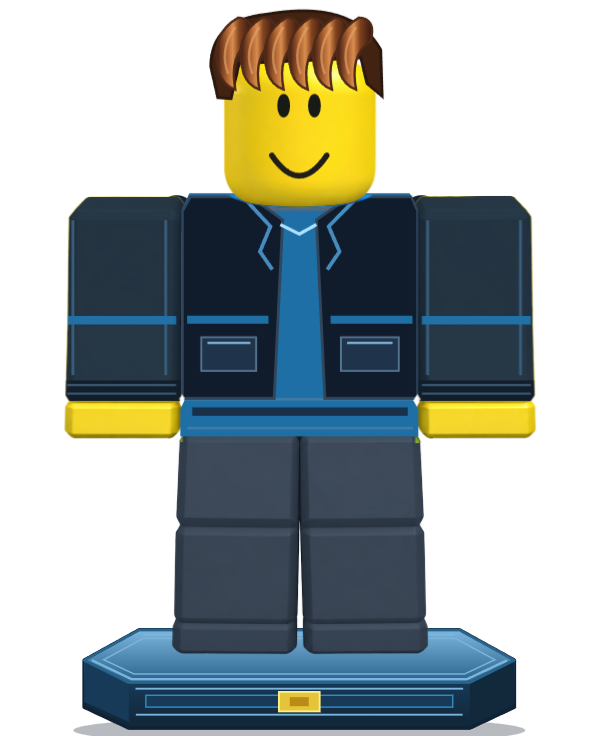
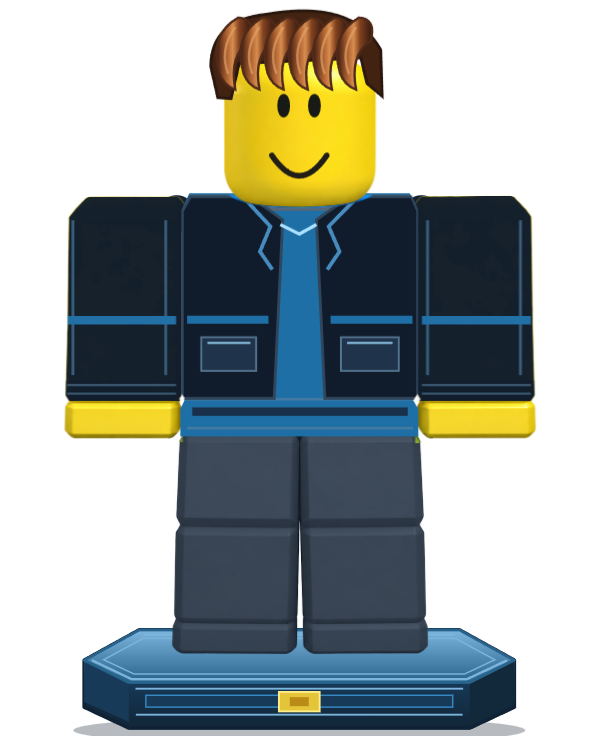
Add mix-and-match Roblox wardrobe, new outfits, and matching jacket sleeves

diff --git a/roblox-pet/skins.js b/roblox-pet/skins.js
@@ -5,13 +5,16 @@ const skins={
  'Classic Guest':{headwear:'none',torso:'ink',legs:'blue',arms:null,deck:['#70849c','#253b53'],blue:['#182332','#3c536c','#111b29']},
  Builder:{headwear:'hard-hat',torso:'ink',legs:'denim',arms:null,deck:['#e9c66f','#9b6b2b'],blue:['#6d391a','#b87730','#3d261b']},
  'Bacon Hair':{headwear:'bacon-hair',torso:'blue',legs:'ink',arms:null,deck:['#7cb5dc','#28638c'],blue:['#173a59','#368ac2','#12283b']},
+ 'Red Varsity':{headwear:'bacon-hair',torso:'ink',legs:'denim',arms:null,deck:['#f39195','#883245'],blue:['#631c32','#bc3954','#341a29']},
+ Explorer:{headwear:'none',torso:'ink',legs:'khaki',arms:null,deck:['#d8c49b','#746d40'],blue:['#404d31','#8a9960','#283024']},
+ Astronaut:{headwear:'none',torso:'steel',legs:'steel',arms:null,deck:['#d4e9fa','#6795bd'],blue:['#23466a','#559fcf','#162b46']},
  Knight:{headwear:'knight-helmet',torso:'steel',legs:'steel',arms:'steel',deck:['#e1e6ec','#718296'],blue:['#26364a','#8dabc9','#243248']}
 };
 if(typeof module!=='undefined'&&module.exports){module.exports=skins;return}root.robloxSkins=skins;
 root.mountRobloxSkins=function(pet){
  const ns='http://www.w3.org/2000/svg',svg=pet.querySelector('svg'),defs=svg.querySelector('defs');
  const add=(parent,markup)=>{const g=document.createElementNS(ns,'g');g.innerHTML=markup;parent.append(g);return g;};
- const colors={jacket:['#050d18','#26394c'],ink:['#060d17','#4b596a'],blue:['#002249','#2db0ff'],denim:['#061c31','#3b769d'],steel:['#263448','#f4f8ff']};
+ const colors={jacket:['#101c2b','#101c2b'],khaki:['#302c1c','#a49a6c'],ink:['#060d17','#4b596a'],blue:['#002249','#2db0ff'],denim:['#061c31','#3b769d'],steel:['#263448','#f4f8ff']};
  for(const [id,[lo,hi]] of Object.entries(colors)){const rgb=s=>[1,3,5].map(i=>parseInt(s.slice(i,i+2),16)/255),a=rgb(lo),b=rgb(hi);const values=a.flatMap((v,i)=>[.2126*(b[i]-v),.7152*(b[i]-v),.0722*(b[i]-v),0,v]).concat([0,0,0,1,0]);defs.insertAdjacentHTML('beforeend',`<filter id="rbwear-${id}" color-interpolation-filters="sRGB"><feColorMatrix values="${values.join(' ')}"/></filter>`);}
  defs.insertAdjacentHTML('beforeend',`<linearGradient id="rbwear-orange"><stop stop-color="#9c3e0c"/><stop offset=".18" stop-color="#f99c25"/><stop offset=".5" stop-color="#ffbb45"/><stop offset=".86" stop-color="#e46b10"/><stop offset="1" stop-color="#8e370d"/></linearGradient><linearGradient id="rbwear-silver"><stop stop-color="#445266"/><stop offset=".2" stop-color="#cbd8e3"/><stop offset=".45" stop-color="#f0f5f8"/><stop offset=".58" stop-color="#9aaebf"/><stop offset="1" stop-color="#37475d"/></linearGradient><linearGradient id="rbwear-gold"><stop stop-color="#926019"/><stop offset=".4" stop-color="#ffed90"/><stop offset=".7" stop-color="#e4b443"/><stop offset="1" stop-color="#9d671b"/></linearGradient><linearGradient id="rbwear-hair"><stop stop-color="#3d1a10"/><stop offset=".3" stop-color="#ad6231"/><stop offset=".47" stop-color="#d88c4e"/><stop offset=".65" stop-color="#81421f"/><stop offset="1" stop-color="#32170e"/></linearGradient><linearGradient id="rbwear-hat" x2="0" y2="1"><stop stop-color="#fff5a7"/><stop offset=".3" stop-color="#ffe04e"/><stop offset=".8" stop-color="#eaa913"/><stop offset="1" stop-color="#9e6508"/></linearGradient>`);
  const torso=pet.querySelector('.skin-torso'),legs=pet.querySelector('.legs'),arms=[...pet.querySelectorAll('.arm')];
@@ -27,6 +30,9 @@ root.mountRobloxSkins=function(pet){
  'Bacon Hair':`<path d="M322 411H449L517 460L499 837H305V442ZM658 411H789L802 441V837H606L588 460Z" fill="#101c2b" stroke="#30465c" stroke-width="6"/><path d="M441 420L491 474L469 527L495 565M667 420L614 474L637 527L611 565" fill="none" stroke="#478cc1" stroke-width="8"/><path d="M315 671H487M618 671H791" stroke="#1f6fa7" stroke-width="17"/><path d="M345 708H461V779H345ZM640 708H762V779H640Z" fill="#1f344b" stroke="#54738f" stroke-width="4"/><path d="M358 720H449M653 720H749" stroke="#7cafcf" stroke-width="5"/><path d="M512 470L552 490L588 470" fill="none" stroke="#ace1ff" stroke-width="7"/><path d="M326 865H781" stroke="#18304a" stroke-width="18"/>`,
  Knight:`<path d="M326 427H458L552 478L650 427H780L791 798L743 831H361L314 798Z" fill="url(#rbwear-silver)" stroke="#405267" stroke-width="8"/><path d="M339 446H451L552 497L653 446H764M552 504V807M338 793L552 814L767 793" fill="none" stroke="#f5f7e9" stroke-width="7"/><path d="M465 540H638V649Q620 730 552 765Q483 730 465 649Z" fill="#183f72" stroke="url(#rbwear-gold)" stroke-width="10"/><path d="M552 563L570 612L620 613L580 643L594 696L552 664L510 696L524 643L484 613L534 612Z" fill="url(#rbwear-gold)"/><path d="M310 850H795V895H310Z" fill="#313f52"/><rect x="515" y="847" width="77" height="53" rx="8" fill="url(#rbwear-gold)"/><path d="M535 861H574V885H535Z" fill="#29415f"/>${rivets([350,752],474)}${rivets([348,754],772)}`
  };
+ outfits['Red Varsity']=`<path d="M309 425H797V838H309Z" fill="#8f203b"/><path d="M444 414L552 487L658 414" fill="none" stroke="#f7e3c0" stroke-width="22"/><path d="M552 487V836" stroke="#f6ddb4" stroke-width="8"/><path d="M314 810H792M314 790H792" stroke="#f7e3c0" stroke-width="10"/><path d="M355 682L435 659M669 659L749 682" stroke="#efcaa4" stroke-width="10"/><text x="389" y="590" fill="#fff0ca" stroke="#502238" stroke-width="2" font-family="Arial" font-weight="900" font-size="88">B</text>${[545,615,685,755].map(y=>`<circle cx="565" cy="${y}" r="6" fill="#ffe8bd"/>`).join('')}`;
+ outfits.Explorer=`<path d="M311 416H463L520 494V837H308ZM642 416H793V837H584V494Z" fill="#8a7951" stroke="#504b32" stroke-width="7"/><path d="M459 420L497 473L463 548M645 420L609 473L643 548" fill="none" stroke="#c3b284" stroke-width="12"/>${[341,650].map(x=>`<path d="M${x} 566H${x+113}V688H${x}Z" fill="#746743" stroke="#c5b58a" stroke-width="5"/><path d="M${x} 566L${x+57} 604L${x+113} 566" fill="#9f8e62" stroke="#c5b58a" stroke-width="4"/><circle cx="${x+57}" cy="610" r="7" fill="#d8c79b"/>`).join('')}<path d="M313 853H795V891H313Z" fill="#4a3828"/><rect x="525" y="848" width="56" height="50" fill="#ceb57b"/><rect x="537" y="861" width="32" height="24" fill="#4a3828"/>`;
+ outfits.Astronaut=`<path d="M311 420H795V837H311Z" fill="#dce7ee" stroke="#7b9bb4" stroke-width="8"/><path d="M450 425Q552 509 656 425" fill="none" stroke="#35516d" stroke-width="28"/><rect x="422" y="538" width="262" height="170" rx="18" fill="#36506c" stroke="#98b4c8" stroke-width="9"/><rect x="442" y="559" width="151" height="73" rx="6" fill="#8ee3ed"/><path d="M457 607L477 583L501 611L530 579L576 592" fill="none" stroke="#24668a" stroke-width="7"/><circle cx="636" cy="584" r="17" fill="#ff983d"/><circle cx="636" cy="643" r="14" fill="#8be2a2"/><path d="M446 663H583M313 772H795" stroke="#6b8ca6" stroke-width="11"/><path d="M312 851H795V894H312Z" fill="#344b61"/><rect x="526" y="849" width="56" height="48" fill="#f39b43"/>`;
  const hats={
  'hard-hat':`<path d="M377 161Q381 38 552 32Q722 38 728 161L751 177Q556 227 351 177Z" fill="url(#rbwear-hat)" stroke="#98630d" stroke-width="7"/><path d="M414 148Q419 69 483 58M691 148Q683 69 620 58" fill="none" stroke="#ffe991" stroke-width="11"/><path d="M533 39H570L583 164H521Z" fill="#f7cd38" stroke="#c0890e" stroke-width="5"/><path d="M359 177Q552 201 744 177" fill="none" stroke="#fff0a0" stroke-width="8"/><rect x="527" y="112" width="54" height="41" rx="6" fill="#294458"/><path d="M539 134H568M554 121V146" stroke="#fce7a1" stroke-width="6"/>`,
  'bacon-hair':`<path d="M380 202L365 136Q366 38 482 26Q665 -6 724 101L727 199L695 172L682 118L425 130L408 204Z" fill="#422211" stroke="#29170e" stroke-width="6"/>${[0,1,2,3,4,5].map(i=>{const x=383+i*51;return `<path d="M${x} 150Q${x-23} 69 ${x+40} 33Q${x+77} 35 ${x+65} 82Q${x+20} 111 ${x+34} 185Q${x+9} 176 ${x} 150Z" fill="url(#rbwear-hair)" stroke="#502a18" stroke-width="5"/><path d="M${x+34} 53Q${x-1} 101 ${x+19} 152" fill="none" stroke="#e2a369" stroke-width="5" opacity=".65"/>`}).join('')}`,
@@ -34,15 +40,18 @@ root.mountRobloxSkins=function(pet){
  };
  const trim=[...pet.querySelectorAll('.platform [fill],.platform [stroke],.nameplate [fill],.nameplate [stroke]')].map(node=>({node,fill:node.getAttribute('fill'),stroke:node.getAttribute('stroke')}));
  let lastSkin='',lastHat='';
- function set(prefs,dancing){const name=Object.hasOwn(skins,prefs.skin)?prefs.skin:'Classic',s=skins[name];
-  if(name!==lastSkin){lastSkin=name;pet.dataset.skin=name;
+ function set(prefs,dancing){const skin=Object.hasOwn(skins,prefs.skin)?prefs.skin:'Classic',name=Object.hasOwn(skins,prefs.top)?prefs.top:skin,pants=Object.hasOwn(skins,prefs.pants)?prefs.pants:skin,s={...skins[skin],torso:skins[name].torso,arms:skins[name].arms,legs:skins[pants].legs},key=[skin,name,pants].join('|');
+  if(key!==lastSkin){lastSkin=key;pet.dataset.skin=skin;pet.dataset.top=name;pet.dataset.pants=pants;
    for(const [node,id] of [[torso.querySelector('image'),s.torso],[legs.querySelector('image'),s.legs],...arms.map(a=>[a.querySelector('image'),s.arms])]){if(id)node.setAttribute('filter',`url(#rbwear-${id})`);else node.removeAttribute('filter');}
    arms.forEach((arm,i)=>arm.querySelector('circle').setAttribute('fill',name==='Knight'?'#7a8da0':name==='Bacon Hair'?'#142233':i?'#e9d21e':'#dfc81d'));
    const palette={'#16466b':s.blue[0],'#0d3557':s.blue[2],'#102d48':s.blue[2],'#59aee2':s.deck[0],'#77c7f2':s.deck[0],'#597b30':s.deck[1],'#e4f5b5':s.deck[0],'#b9d879':s.deck[0],'#398bbd':s.blue[1],'#1c527b':s.blue[0]};
-   trim.forEach(({node,fill,stroke})=>{if(fill)node.setAttribute('fill',name==='Classic'?fill:palette[fill]||fill);if(stroke)node.setAttribute('stroke',name==='Classic'?stroke:palette[stroke]||stroke)});
-   torso.querySelector('image').style.display=name==='Classic'?'':'none';
-   torsoLayer.innerHTML=name==='Classic'?'':`<g class="plain-outfit-base"><path d="M320 403H785L802 440V825L792 840L804 861V918H300V861L310 840L303 825V440Z" fill="${name==='Knight'?'#b3c2d1':name==='Bacon Hair'?'#1d6fa6':'#263342'}"/><path d="M320 407H785L793 441H311Z" fill="#52677b"/><path d="M310 445H329V817H310ZM781 445H798V817H781Z" fill="#0c1a2c" opacity=".3"/><path d="M310 839H792M315 900H792" stroke="#71889b" stroke-width="5" opacity=".5"/></g>`+(outfits[name]||'');legLayer.innerHTML=name==='Builder'?`<path d="M309 954L340 1008H423M800 954L767 1008H685M425 935V1081M678 935V1081" fill="none" stroke="#8bb2c6" stroke-width="5" stroke-dasharray="8 5"/><path d="M293 1292H543V1379H293ZM561 1292H815V1379H561Z" fill="#443320" stroke="#876d43" stroke-width="6"/>`:name==='Knight'?`<path d="M312 970H516V1073H312ZM583 970H786V1073H583Z" fill="url(#rbwear-silver)" stroke="#435870" stroke-width="6"/><path d="M332 1153L409 1130L495 1153V1281H332ZM603 1153L681 1130L765 1153V1281H603Z" fill="url(#rbwear-silver)" stroke="#435870" stroke-width="6"/>`:'';
+   trim.forEach(({node,fill,stroke})=>{if(fill)node.setAttribute('fill',skin==='Classic'?fill:palette[fill]||fill);if(stroke)node.setAttribute('stroke',skin==='Classic'?stroke:palette[stroke]||stroke)});
+   torso.querySelector('image').style.display=name==='Classic'&&skin==='Classic'?'':'none';
+   torsoLayer.innerHTML=name==='Classic'&&skin==='Classic'?'':`<g class="plain-outfit-base"><path d="M320 403H785L802 440V825L792 840L804 861V918H300V861L310 840L303 825V440Z" fill="${name==='Knight'?'#b3c2d1':(name==='Bacon Hair'||name==='Classic')?'#1d6fa6':'#263342'}"/><path d="M320 407H785L793 441H311Z" fill="#52677b"/><path d="M310 445H329V817H310ZM781 445H798V817H781Z" fill="#0c1a2c" opacity=".3"/><path d="M310 839H792M315 900H792" stroke="#71889b" stroke-width="5" opacity=".5"/></g>`+(outfits[name]||'');legLayer.innerHTML=pants==='Builder'?`<path d="M309 954L340 1008H423M800 954L767 1008H685M425 935V1081M678 935V1081" fill="none" stroke="#8bb2c6" stroke-width="5" stroke-dasharray="8 5"/><path d="M293 1292H543V1379H293ZM561 1292H815V1379H561Z" fill="#443320" stroke="#876d43" stroke-width="6"/>`:pants==='Knight'?`<path d="M312 970H516V1073H312ZM583 970H786V1073H583Z" fill="url(#rbwear-silver)" stroke="#435870" stroke-width="6"/><path d="M332 1153L409 1130L495 1153V1281H332ZM603 1153L681 1130L765 1153V1281H603Z" fill="url(#rbwear-silver)" stroke="#435870" stroke-width="6"/>`:'';
    armLayers.forEach((layer,i)=>{const x=i?811:62;layer.innerHTML=name==='Bacon Hair'?`<svg class="jacket-sleeve" x="${x-35}" y="397" width="290" height="445" viewBox="${x-35} 397 290 445" overflow="hidden"><image href="roblox-pet/approved-roblox.png" width="1107" height="1421" filter="url(#rbwear-jacket)"/><path d="M${x+12} 461V788M${x+208} 461V788" stroke="#365d7c" stroke-width="6"/><path d="M${x} 672H${x+230}" stroke="#1f6fa7" stroke-width="18"/><path d="M${x-20} 799H${x+250}V842H${x-20}Z" fill="#101c2b"/><path d="M${x} 809H${x+230}M${x} 827H${x+230}" stroke="#36536d" stroke-width="5"/></svg>`:name==='Knight'?`<path d="M${x} 445H${x+225}V574L${x+195} 600H${x+25}L${x} 574Z" fill="url(#rbwear-silver)" stroke="#40536b" stroke-width="7"/><path d="M${x+12} 474H${x+213}M${x+12} 519H${x+213}" stroke="#62748a" stroke-width="6"/><path d="M${x+6} 746H${x+220}V825H${x+6}Z" fill="url(#rbwear-silver)" stroke="#40536b" stroke-width="6"/>`:'';});
+   const sleeveColors={'Red Varsity':['#efe0bc','#af344e'],Explorer:['#8a7951','#c3b284'],Astronaut:['#dce7ee','#6b8ca6']};
+   if(sleeveColors[name])armLayers.forEach((layer,i)=>{const x=i?811:62,[fill,trim]=sleeveColors[name];layer.innerHTML=`<path d="M${x-30} 397H${x+260}V842H${x-30}Z" fill="${fill}"/><path d="M${x+8} 457V790M${x+213} 457V790" stroke="${trim}" stroke-width="7"/><path d="M${x-30} 801H${x+260}M${x-30} 825H${x+260}" stroke="${trim}" stroke-width="12"/>`;});
+   if(pants==='Red Varsity'||pants==='Explorer'||pants==='Astronaut')legLayer.innerHTML=`<path d="M320 959L344 1015H416M790 959L765 1015H693M425 940V1077M678 940V1077" fill="none" stroke="${pants==='Astronaut'?'#7196b2':'#c0b18e'}" stroke-width="6"/><path d="M298 1299H539V1379H298ZM565 1299H811V1379H565Z" fill="${pants==='Astronaut'?'#36506c':'#263342'}"/>`;
    const stops=(id,cs)=>pet.querySelectorAll('#roblox-'+id+' stop').forEach((stop,i)=>stop.setAttribute('stop-color',cs[Math.min(i,cs.length-1)]));stops('deck',s.deck);stops('blue',s.blue);stops('fascia',[s.blue[1],s.blue[0],s.blue[2]]);stops('plateInset',[s.blue[1],s.blue[2]]);
   }
   const hat=dancing?'none':prefs.headwear;if(hat!==lastHat){lastHat=hat;headLayer.innerHTML=hats[hat]||'';headLayer.dataset.headwear=hat;}

diff --git a/pet-studio.js b/pet-studio.js
@@ -31,7 +31,7 @@ function sync(){
 function heading(title,description,badge=''){return '<div class="section-heading"><div><h3>'+title+'</h3><p>'+description+'</p></div>'+(badge?'<span class="count">'+badge+'</span>':'')+'</div>'}
 function category(name){if(current==='roblox')return 'Block characters';if(current==='labubu')return 'Plush';if(current==='eagle')return 'Birds';if(current==='gummy')return 'Candy';if(/Jack/.test(name))return 'Seasonal';if(/Axolotl|Panda|Tiger|Snake|Zebra|Crocodile|Camo/.test(name))return 'Animals';if(/Glitter|Metallic|Chrome|Copper|Bronze|Royal|Gold/.test(name))return 'Metallic';return 'Fantasy'}
 function skinItems(){return current==='roblox'?Object.keys(robloxSkins).map(id=>({id,label:id})):current==='labubu'?Object.keys(labubuSkins).map(id=>({id,label:id})):current==='eagle'?[{id:'Bald Eagle',label:'Bald Eagle'}]:current==='gummy'?Object.keys(gummyBearSkins).map(id=>({id,label:id})):current==='colt'?Object.keys(roboColtSkins).map(id=>({id,label:id})):squishyColors}
-function gallery(){const items=skinItems().filter(x=>(filter==='All'||category(x.label)===filter)&&x.label.toLowerCase().includes(query.toLowerCase()));const chosen=current==='squishy'?state.squishy.color:state[current].skin;dialog.querySelector('#gallery').innerHTML=items.map(x=>'<button class="skin-card" data-skin-choice="'+esc(x.id)+'" aria-pressed="'+(x.id===chosen)+'">'+(current==='labubu'?labubuThumbnail(x.id):'<img src="assets/pet-studio/'+current+'-'+slug(x.id)+'.png?v='+(current==='roblox'?'20261025-fit-v2':'20261024-transparent')+'" alt="" loading="lazy">')+'<span class="skin-name">'+esc(x.label)+'</span>'+(chosen===x.id?'<span class="check" aria-hidden="true">✓</span>':'')+'</button>').join('')||'<div class="empty">No matching skins. Try another search.</div>';dialog.querySelectorAll('[data-skin-choice]').forEach(b=>b.onclick=()=>{change(current==='squishy'?'color':'skin',b.dataset.skinChoice);gallery()});}
+function gallery(){const items=skinItems().filter(x=>(filter==='All'||category(x.label)===filter)&&x.label.toLowerCase().includes(query.toLowerCase()));const chosen=current==='squishy'?state.squishy.color:state[current].skin;dialog.querySelector('#gallery').innerHTML=items.map(x=>'<button class="skin-card" data-skin-choice="'+esc(x.id)+'" aria-pressed="'+(x.id===chosen)+'">'+(current==='labubu'?labubuThumbnail(x.id):'<img src="assets/pet-studio/'+current+'-'+slug(x.id)+'.png?v='+(current==='roblox'?'20261025-wardrobe-v3':'20261024-transparent')+'" alt="" loading="lazy">')+'<span class="skin-name">'+esc(x.label)+'</span>'+(chosen===x.id?'<span class="check" aria-hidden="true">✓</span>':'')+'</button>').join('')||'<div class="empty">No matching skins. Try another search.</div>';dialog.querySelectorAll('[data-skin-choice]').forEach(b=>b.onclick=()=>{change(current==='squishy'?'color':'skin',b.dataset.skinChoice);gallery()});}
 function choices(key,items){return '<div class="choices">'+items.map(([id,label])=>'<button data-choice-key="'+key+'" data-choice="'+id+'" aria-pressed="'+(state[current][key]===id)+'">'+label+'</button>').join('')+'</div>'}
 function toggle(key,label,desc){return '<label class="option-row"><span><strong>'+label+'</strong><p>'+desc+'</p></span><input type="checkbox" data-toggle="'+key+'" '+(state[current][key]?'checked':'')+'></label>'}
 function render(){content.setAttribute('aria-labelledby','studio-tab-'+tab);dialog.querySelectorAll('[data-tab]').forEach(b=>{b.setAttribute('aria-selected',b.dataset.tab===tab);b.tabIndex=b.dataset.tab===tab?0:-1});const p=state[current];
@@ -39,7 +39,7 @@ function render(){content.setAttribute('aria-labelledby','studio-tab-'+tab);dial
   content.innerHTML=heading('Find their signature look','A new look. The same little companion.',skinItems().length+' skins')+'<div class="subtabs"><button data-subtab="skins" aria-pressed="'+(subtab==='skins')+'">Skins</button><button data-subtab="accessories" aria-pressed="'+(subtab==='accessories')+'">Accessories</button></div>'+(subtab==='skins'?'<input class="search" id="skin-search" type="search" aria-label="Search skins" placeholder="Search skins…" value="'+esc(query)+'"><div class="filters">'+['All',...new Set(skinItems().map(x=>category(x.label)))].map(f=>'<button data-filter="'+f+'" aria-pressed="'+(f===filter)+'">'+f+'</button>').join('')+'</div><div class="gallery" id="gallery"></div>':'<div class="accessory-list"><h4>HEADWEAR</h4>'+choices(current==='colt'?'headwear':'accessory',current==='colt'?[['none','None'],['headphones','Headphones'],['horn','Unicorn horn'],['racing-helmet','Racing helmet'],['sleepcap','Sleep cap']]:[['none','None'],['bow','Bow'],['headphones','Headphones'],['hat','Small hat'],['cap','School cap'],['crown','Crown'],['sleepcap','Sleep cap']])+'<h4>EYEWEAR</h4>'+choices('eyewear',current==='colt'?[['none','None'],['sunglasses','Sunglasses'],['star-glasses','Star glasses'],['sport-goggles','Sport goggles']]:[['none','None'],['round','Round glasses'],['tea-glasses','Tea glasses'],['sunglasses','Sunglasses'],['star-glasses','Star glasses']])+(current==='colt'?'<h4>NECKWEAR & BODY</h4>'+choices('neckwear',[['none','None'],['scarf','Scarf'],['chest-badge','Armored badge'],['bowtie','Bow tie']]):'')+'</div><div class="helper-box">Mix pieces from different categories. Accessories stay fitted when you change skins.</div>');
   if(['eagle','gummy'].includes(current)&&subtab==='accessories')content.innerHTML=heading('Finish their look','Mix one piece from each category.')+'<div class="subtabs"><button data-subtab="skins">Skins</button><button data-subtab="accessories" aria-pressed="true">Accessories</button></div><div class="accessory-list"><h4>HEADWEAR</h4>'+choices('headwear',current==='eagle'?[['none','None'],['flight-cap','Flight cap'],['ranger','Ranger hat'],['sheriff','Sheriff hat'],['earmuffs','Earmuffs']]:[['none','None'],['crown','Candy crown'],['varsity','Varsity cap'],['beanie','Candy beanie'],['headphones','Headphones']])+'<h4>EYEWEAR</h4>'+choices('eyewear',current==='eagle'?[['none','None'],['goggles','Aviator goggles'],['bronze-goggles','Bronze goggles']]:[['none','None'],['sunglasses','Sunglasses'],['star-glasses','Star glasses']])+'<h4>NECKWEAR & BODY</h4>'+choices('neckwear',current==='eagle'?[['none','None'],['bandana','Bandana'],['compass','Compass pendant'],['medal','Feather medal'],['shoulder-scarf','Woven scarf'],['flight-vest','Flight vest']]:[['none','None'],['bowtie','Bow tie'],['candy-chain','Candy chain'],['belt','Candy belt']])+'</div><div class="helper-box">Headphones temporarily replace headwear during music. Your selections return afterward.</div>';
 
-  if(current==='roblox'&&subtab==='accessories')content.innerHTML=heading('Finish their look','Mix any headwear with your outfit. Music temporarily swaps it for headphones.')+'<div class="subtabs"><button data-subtab="skins">Skins</button><button data-subtab="accessories" aria-pressed="true">Accessories</button></div><h4>HEADWEAR</h4>'+choices('headwear',[['none','None'],['headphones','Headphones'],['hard-hat','Builder hard hat'],['bacon-hair','Bacon hair'],['knight-helmet','Knight helmet']]);
+  if(current==='roblox'&&subtab==='accessories')content.innerHTML=heading('Finish their look','Choose a top, pants, and headwear independently. Selecting a skin resets the outfit.')+'<div class="subtabs"><button data-subtab="skins">Skins</button><button data-subtab="accessories" aria-pressed="true">Accessories</button></div><h4>HEADWEAR</h4>'+choices('headwear',[['none','None'],['headphones','Headphones'],['hard-hat','Builder hard hat'],['bacon-hair','Bacon hair'],['knight-helmet','Knight helmet']])+'<h4>TOPS & JACKETS</h4>'+choices('top',[['skin','Match selected skin'],...Object.keys(robloxSkins).map(id=>[id,id])])+'<h4>PANTS</h4>'+choices('pants',[['skin','Match selected skin'],...Object.keys(robloxSkins).map(id=>[id,id])]);
   if(current==='labubu'&&subtab==='accessories')content.innerHTML=heading('Finish their look','Mix textured outfits, matching hats, and a little gold.')+'<div class="subtabs"><button data-subtab="skins">Skins</button><button data-subtab="accessories" aria-pressed="true">Accessories</button></div><h4>HEADWEAR</h4>'+choices('headwear',[['none','None'],['headphones','Headphones'],['mustard-cap','Mustard knit cap'],['black-bucket','Black bucket hat'],['black-hood','Black hood']])+'<h4>OUTFITS</h4>'+choices('outfit',[['none','None'],['mustard-overalls','Mustard overalls & cream shirt'],['black-streetwear','Black streetwear'],['black-hoodie','Black hoodie & joggers']])+'<h4>NECKWEAR</h4>'+choices('neckwear',[['none','None'],['gold-chain','Gold chain']])+'<div class="helper-box">Mix pieces with any fur color. Headphones temporarily replace hats while dancing; your chosen hat returns afterward.</div>';
   dialog.querySelectorAll('[data-subtab]').forEach(b=>b.onclick=()=>{subtab=b.dataset.subtab;render()});
   if(subtab==='skins'){gallery();dialog.querySelector('#skin-search').oninput=e=>{query=e.target.value;gallery()};dialog.querySelectorAll('[data-filter]').forEach(b=>b.onclick=()=>{filter=b.dataset.filter;render()})}

diff --git a/work/roblox-skins-preview.html b/work/roblox-skins-preview.html
@@ -1,8 +1,8 @@
-<!doctype html><html lang="en"><head><meta charset="utf-8"><base href="../"><meta name="viewport" content="width=device-width,initial-scale=1"><title>Roblox Buddy — outfits</title><link rel="stylesheet" href="roblox-pet/interactive.css?v=20261025-fit-v2"><style>
+<!doctype html><html lang="en"><head><meta charset="utf-8"><base href="../"><meta name="viewport" content="width=device-width,initial-scale=1"><title>Roblox Buddy — outfits</title><link rel="stylesheet" href="roblox-pet/interactive.css?v=20261025-wardrobe-v3"><style>
 body{margin:0;background:#1b2430;color:#eaf4ff;font:16px system-ui;text-align:center}main{max-width:900px;margin:auto;padding:24px}h1{margin-bottom:8px}p{color:#b9cbde}.stage{display:grid;place-items:center;min-height:480px;background:radial-gradient(#374a60,#202c3b);border:1px solid #516075;border-radius:24px;margin:24px 0}.stage .roblox-companion{position:relative!important;inset:auto!important;width:300px!important;max-width:85vw;margin:0}.controls{display:flex;flex-wrap:wrap;justify-content:center;gap:10px;margin:16px 0}button,select{padding:10px 14px;border:1px solid #657a92;border-radius:10px;background:#293d53;color:#fff;font:inherit;cursor:pointer}button[aria-pressed=true]{background:#195b8c;border-color:#98d9ff}.roblox-speech{display:none}label{display:flex;align-items:center;gap:8px}.note{font-size:13px}
-</style></head><body><main><h1>Roblox Buddy · new outfits</h1><p>The actual Pet Studio outfits, with mix-and-match headwear.</p><div class="controls" id="skins"></div><div class="stage"></div><div class="controls"><label>Headwear <select id="headwear"><option value="none">None</option><option value="headphones">Headphones</option><option value="hard-hat">Builder hard hat</option><option value="bacon-hair">Bacon hair</option><option value="knight-helmet">Knight helmet</option></select></label><label><input id="motion" type="checkbox" checked>Motion</label></div><div class="controls"><button data-action="hello">Say hello</button><button data-action="hands">Arm wiggle</button><button data-action="look">Look around</button><button id="sleep">Sleep / wake</button><button id="dance">Dance</button></div><p class="note">These use the production artwork and animations. This test does not change account settings.</p></main><script src="roblox-pet/skins.js?v=20261025-fit-v2"></script><script src="roblox-pet/interactive.js?v=20261025-fit-v2"></script><script>
+</style></head><body><main><h1>Roblox Buddy · new outfits</h1><p>The actual Pet Studio outfits, with mix-and-match tops, pants, and headwear.</p><div class="controls" id="skins"></div><div class="stage"></div><div class="controls"><label>Headwear <select id="headwear"><option value="none">None</option><option value="headphones">Headphones</option><option value="hard-hat">Builder hard hat</option><option value="bacon-hair">Bacon hair</option><option value="knight-helmet">Knight helmet</option></select></label><label>Top <select id="top"></select></label><label>Pants <select id="pants"></select></label><label><input id="motion" type="checkbox" checked>Motion</label></div><div class="controls"><button data-action="hello">Say hello</button><button data-action="hands">Arm wiggle</button><button data-action="look">Look around</button><button id="sleep">Sleep / wake</button><button id="dance">Dance</button></div><p class="note">These use the production artwork and animations. This test does not change account settings.</p></main><script src="roblox-pet/skins.js?v=20261025-wardrobe-v3"></script><script src="roblox-pet/interactive.js?v=20261025-wardrobe-v3"></script><script>
 let prefs={...robloxDefaults(),skin:'Builder',headwear:'hard-hat'},radio=false;const pet=createRobloxPet(p=>{prefs=p;refresh()},()=>pet.play('hello'));document.querySelector('.stage').append(pet.host);
-function refresh(){pet.update({account:'skin-preview',visible:true,radio,preferences:prefs});document.querySelector('#headwear').value=prefs.headwear;document.querySelectorAll('[data-skin]').forEach(b=>b.setAttribute('aria-pressed',b.dataset.skin===prefs.skin))}
-for(const skin of Object.keys(robloxSkins)){const b=document.createElement('button');b.textContent=skin;b.dataset.skin=skin;b.onclick=()=>{prefs.skin=skin;prefs.headwear=robloxSkins[skin].headwear;refresh()};document.querySelector('#skins').append(b)}
-document.querySelector('#headwear').onchange=e=>{prefs.headwear=e.target.value;refresh()};document.querySelector('#motion').onchange=e=>{prefs.motion=e.target.checked;refresh()};document.querySelector('#sleep').onclick=()=>{prefs.asleep=!prefs.asleep;refresh()};document.querySelector('#dance').onclick=()=>{radio=!radio;refresh()};document.querySelectorAll('[data-action]').forEach(b=>b.onclick=()=>pet.play(b.dataset.action));refresh();window.skinPreview={pet,get prefs(){return prefs},refresh};
+function refresh(){pet.update({account:'skin-preview',visible:true,radio,preferences:prefs});document.querySelector('#headwear').value=prefs.headwear;for(const k of ['top','pants'])document.querySelector('#'+k).value=prefs[k]||'skin';document.querySelectorAll('[data-skin]').forEach(b=>b.setAttribute('aria-pressed',b.dataset.skin===prefs.skin))}
+for(const skin of Object.keys(robloxSkins)){const b=document.createElement('button');b.textContent=skin;b.dataset.skin=skin;b.onclick=()=>{prefs.skin=skin;prefs.top=prefs.pants='skin';prefs.headwear=robloxSkins[skin].headwear;refresh()};document.querySelector('#skins').append(b)}
+for(const k of ['top','pants']){const select=document.querySelector('#'+k);select.add(new Option('Match skin','skin'));Object.keys(robloxSkins).forEach(id=>select.add(new Option(id,id)));select.onchange=()=>{prefs[k]=select.value;refresh()};}document.querySelector('#headwear').onchange=e=>{prefs.headwear=e.target.value;refresh()};document.querySelector('#motion').onchange=e=>{prefs.motion=e.target.checked;refresh()};document.querySelector('#sleep').onclick=()=>{prefs.asleep=!prefs.asleep;refresh()};document.querySelector('#dance').onclick=()=>{radio=!radio;refresh()};document.querySelectorAll('[data-action]').forEach(b=>b.onclick=()=>pet.play(b.dataset.action));refresh();window.skinPreview={pet,get prefs(){return prefs},refresh};
 </script></body></html>

diff --git a/server.js b/server.js
@@ -610,7 +610,7 @@ const LABUBU_ACCESSORIES={headwear:['none','headphones','mustard-cap','black-buc
 function normalizeLabubuPreference(value){const s=value&&typeof value==='object'?value:{};return {skin:Object.hasOwn(LABUBU_SKINS,s.skin)?s.skin:'Tan',name:Array.from((typeof s.name==='string'?s.name:'Labubu').replace(/[\u0000-\u001f\u007f]/g,'').trim()).slice(0,16).join('')||'Labubu',...Object.fromEntries(Object.entries(LABUBU_ACCESSORIES).map(([key,values])=>[key,values.includes(s[key])?s[key]:'none'])),nameplate:s.nameplate!==false,platform:s.platform!==false,motion:s.motion!==false,size:['small','medium','large','extra-large'].includes(s.size)?s.size:'medium',asleep:s.asleep===true};}
 const ROBLOX_SKINS=require('./roblox-pet/skins');
 const ROBLOX_HEADWEAR=['none','headphones','hard-hat','bacon-hair','knight-helmet'];
-function normalizeRobloxPreference(value){const s=value&&typeof value==='object'?value:{};return {skin:Object.hasOwn(ROBLOX_SKINS,s.skin)?s.skin:'Classic',name:Array.from((typeof s.name==='string'?s.name:'Buddy').replace(/[\u0000-\u001f\u007f]/g,'').trim()).slice(0,16).join('')||'Buddy',headwear:ROBLOX_HEADWEAR.includes(s.headwear)?s.headwear:'none',nameplate:s.nameplate!==false,platform:s.platform!==false,motion:s.motion!==false,size:['small','medium','large','extra-large'].includes(s.size)?s.size:'medium',asleep:s.asleep===true};}
+function normalizeRobloxPreference(value){const s=value&&typeof value==='object'?value:{};return {skin:Object.hasOwn(ROBLOX_SKINS,s.skin)?s.skin:'Classic',top:Object.hasOwn(ROBLOX_SKINS,s.top)?s.top:'skin',pants:Object.hasOwn(ROBLOX_SKINS,s.pants)?s.pants:'skin',name:Array.from((typeof s.name==='string'?s.name:'Buddy').replace(/[\u0000-\u001f\u007f]/g,'').trim()).slice(0,16).join('')||'Buddy',headwear:ROBLOX_HEADWEAR.includes(s.headwear)?s.headwear:'none',nameplate:s.nameplate!==false,platform:s.platform!==false,motion:s.motion!==false,size:['small','medium','large','extra-large'].includes(s.size)?s.size:'medium',asleep:s.asleep===true};}
 function normalizeCompanionPreference(value) {
   const source = value && typeof value === "object" ? value : {};
   return {
@@ -3930,7 +3930,7 @@ async function handleApi(req, res, pathname) {
       if(input?.squishyName!==undefined&&(typeof input.squishyName!=='string'||Array.from(input.squishyName).length>16||/[\u0000-\u001f\u007f]/.test(input.squishyName)))throw new Error('Use a Squishy name of up to 16 characters.');
       if(input?.squishyNameplate!==undefined&&typeof input.squishyNameplate!=='boolean')throw new Error('Choose a valid Squishy nameplate setting.');
       if(input?.labubu!==undefined){const p=input.labubu;if(!p||typeof p!=='object'||Array.isArray(p)||!Object.hasOwn(LABUBU_SKINS,p.skin)||typeof p.name!=='string'||Array.from(p.name).length>16||/[\u0000-\u001f\u007f]/.test(p.name)||Object.entries(LABUBU_ACCESSORIES).some(([key,values])=>p[key]!==undefined&&!values.includes(p[key]))||!['small','medium','large','extra-large'].includes(p.size)||['motion','asleep','nameplate','platform'].some(k=>typeof p[k]!=='boolean'))throw new Error('Choose valid Labubu settings.');}
-      if(input?.roblox!==undefined){const p=input.roblox;if(!p||typeof p!=='object'||Array.isArray(p)||!Object.hasOwn(ROBLOX_SKINS,p.skin)||typeof p.name!=='string'||Array.from(p.name).length>16||/[\u0000-\u001f\u007f]/.test(p.name)||!ROBLOX_HEADWEAR.includes(p.headwear)||!['small','medium','large','extra-large'].includes(p.size)||['motion','asleep','nameplate','platform'].some(k=>typeof p[k]!=='boolean'))throw new Error('Choose valid Roblox Buddy settings.');}
+      if(input?.roblox!==undefined){const p=input.roblox;if(!p||typeof p!=='object'||Array.isArray(p)||!Object.hasOwn(ROBLOX_SKINS,p.skin)||['top','pants'].some(k=>p[k]!==undefined&&p[k]!=='skin'&&!Object.hasOwn(ROBLOX_SKINS,p[k]))||typeof p.name!=='string'||Array.from(p.name).length>16||/[\u0000-\u001f\u007f]/.test(p.name)||!ROBLOX_HEADWEAR.includes(p.headwear)||!['small','medium','large','extra-large'].includes(p.size)||['motion','asleep','nameplate','platform'].some(k=>typeof p[k]!=='boolean'))throw new Error('Choose valid Roblox Buddy settings.');}
       if(input?.robo!==undefined){
         const r=input.robo;
         if(r?.name!==undefined&&(typeof r.name!=='string'||Array.from(r.name).length>16||/[\u0000-\u001f\u007f]/.test(r.name)))throw new Error('Use a Colt name of up to 16 characters.');

diff --git a/companion-picker.js b/companion-picker.js
@@ -305,7 +305,7 @@
       if(!allowed()||loadError)return;
       if(key==='name')value=Array.from(String(value).replace(/[\u0000-\u001f\u007f]/g,'')).slice(0,16).join('').trim()||(kind==='roblox'?'Buddy':kind==='labubu'?'Labubu':kind==='eagle'?'Eagle':kind==='gummy'?'Gummy':kind==='colt'?'COLT':'Mochi');
       if(kind==='colt')preferences.robo={...roboColtDefaults(),...preferences.robo,[key]:value};
-      else if(kind==='roblox'){const old={...robloxDefaults(),...preferences.roblox};preferences.roblox={...old,[key]:value};if(key==='skin'&&(old.headwear==='none'||old.headwear===robloxSkins[old.skin]?.headwear))preferences.roblox.headwear=robloxSkins[value]?.headwear||'none';}
+      else if(kind==='roblox'){const old={...robloxDefaults(),...preferences.roblox};preferences.roblox={...old,[key]:value};if(key==='skin'){preferences.roblox.top='skin';preferences.roblox.pants='skin';}if(key==='skin'&&(old.headwear==='none'||old.headwear===robloxSkins[old.skin]?.headwear))preferences.roblox.headwear=robloxSkins[value]?.headwear||'none';}
       else if(kind==='labubu')preferences.labubu={...labubuDefaults(),...preferences.labubu,[key]:value};
       else if(kind==='eagle')preferences.eagle={...eaglePetDefaults(),...preferences.eagle,[key]:value};
       else if(kind==='gummy')preferences.gummy={...gummyBearDefaults(),...preferences.gummy,[key]:value};

diff --git a/index.html b/index.html
@@ -61,9 +61,9 @@
   <script src="labubu-pet/skins.js?v=20261025-ears-v1"></script>
   <script src="labubu-pet/accessories.js?v=20261025-straps-v4"></script>
   <script src="labubu-pet/interactive.js?v=20261025-sleep-zs-look-v2"></script>
-  <link rel="stylesheet" href="roblox-pet/interactive.css?v=20261025-fit-v2">
-  <script src="roblox-pet/skins.js?v=20261025-fit-v2"></script>
-  <script src="roblox-pet/interactive.js?v=20261025-fit-v2"></script>
+  <link rel="stylesheet" href="roblox-pet/interactive.css?v=20261025-wardrobe-v3">
+  <script src="roblox-pet/skins.js?v=20261025-wardrobe-v3"></script>
+  <script src="roblox-pet/interactive.js?v=20261025-wardrobe-v3"></script>
   <script src="pet-studio.js?v=20261025-roblox-skins-v1"></script>
 <script src="eagle-pet/flight-vest.js?v=20261025-beak-clear-v3"></script><script src="pet-accessories-approved.js?v=20261024-eyewear-v2"></script><script src="companion-picker.js?v=20261025-roblox-skins-v1"></script>
 </body>

diff --git a/roblox-pet/interactive.js b/roblox-pet/interactive.js
@@ -1,4 +1,4 @@
-window.robloxDefaults=()=>({skin:'Classic',name:'Buddy',headwear:'none',nameplate:true,platform:true,motion:true,size:'medium',asleep:false});
+window.robloxDefaults=()=>({skin:'Classic',top:'skin',pants:'skin',name:'Buddy',headwear:'none',nameplate:true,platform:true,motion:true,size:'medium',asleep:false});
 window.createRobloxPet=function(onChange,onCustomize){'use strict';
 const host=document.createElement('div');host.className='roblox-companion';host.hidden=true;
 host.innerHTML='<button type="button" class="pet-button" aria-label="Open Roblox Buddy controls"></button><div class="roblox-speech" role="status" hidden></div>';document.body.append(host);
